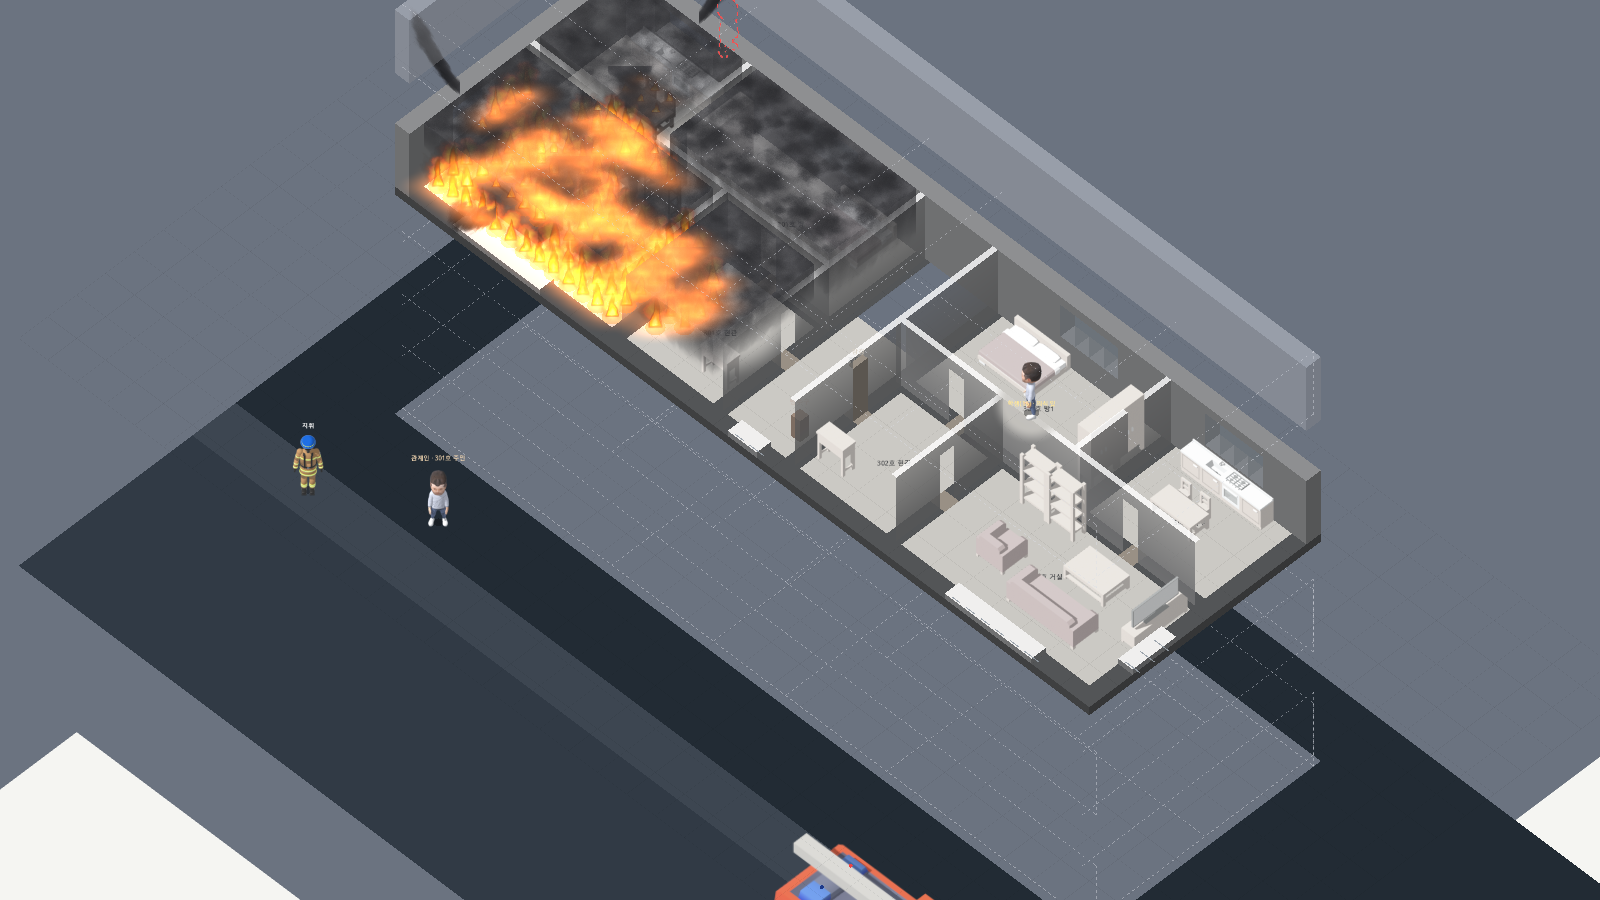
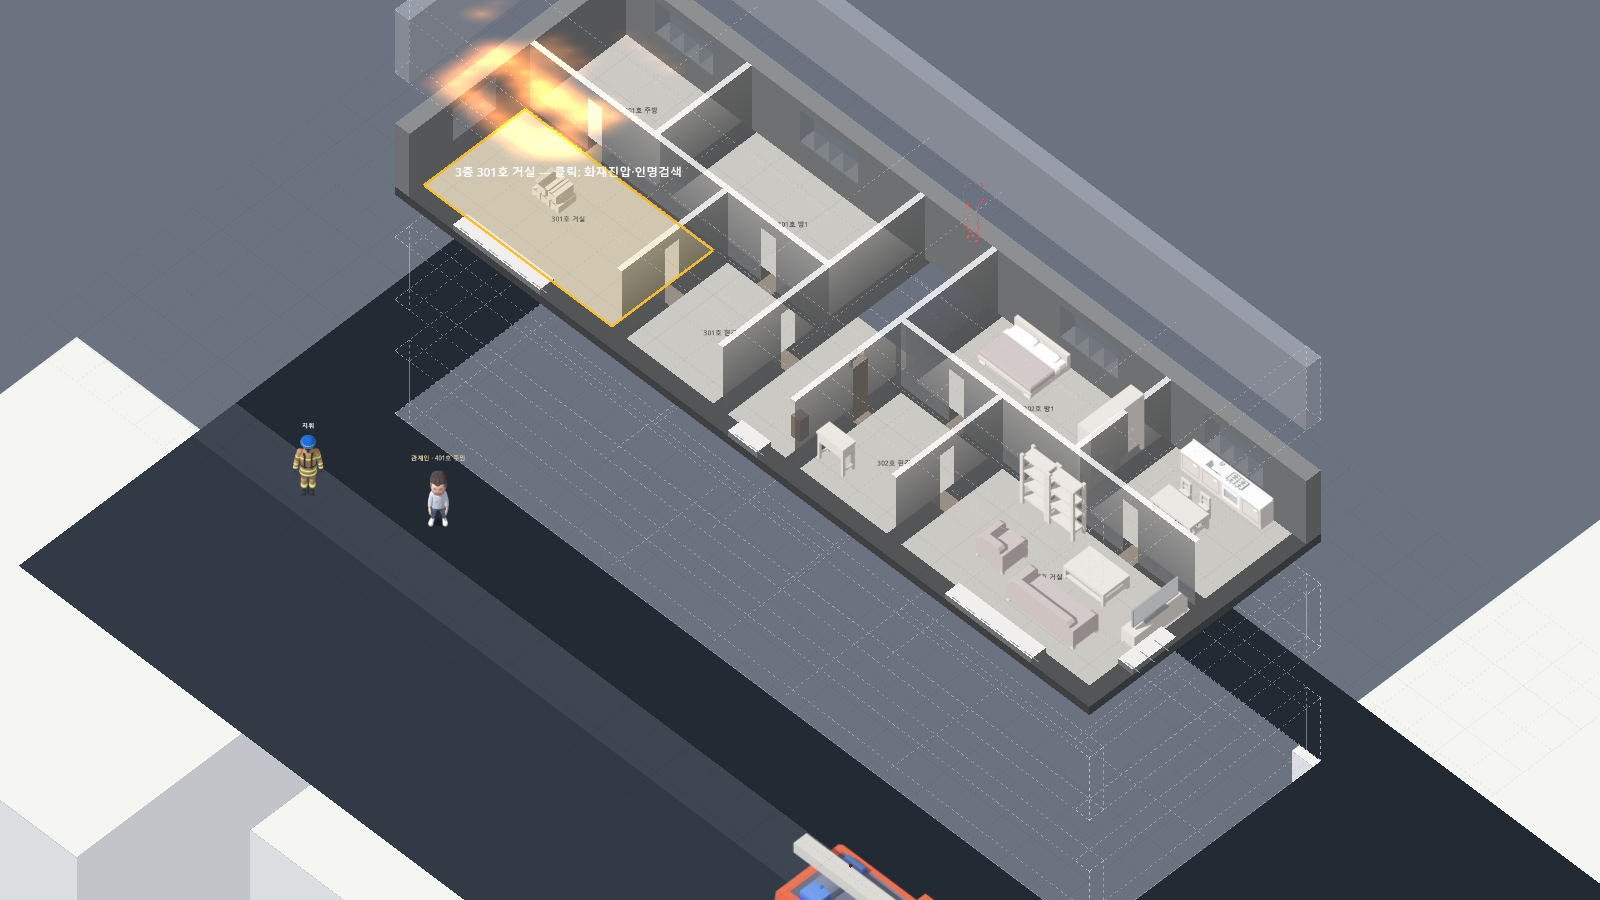
F01: 다른 층 점선 벽도 한 칸 두께 상자 윤곽으로 (반투명 상자와 통일)

diff --git a/docs/decisions.md b/docs/decisions.md
@@ -124,3 +124,4 @@
 | 2026-11-12 | F01 | 위층 뒷벽·왼쪽 벽 반투명 면 | 위층(바로 위) 바깥벽 중 뒷벽(북)·왼쪽 벽(서)만 벽 색 반투명 면 40%(북은 앞면 명암, 서는 옆면 명암), 앞벽(남·동)은 흰 점선 그대로 | 사용자 제안·결정 — 점선만으로는 입체감이 약함. 이 시점에서 위층 북·서 벽은 지금 층 윤곽 바깥(배경 쪽)에 놓여 지금 층을 가리지 않음 (심즈의 뒷벽만 세우기) |
 | 2026-11-12 | F01 | 위층 뒷벽·왼쪽 벽 면 (고침) | 면은 뒷벽(북)·왼쪽 벽(서)만 — 바깥 방향을 벽 줄 가운데 칸으로 판정(모서리 칸 때문에 오른쪽 벽 끝에 면이 생기던 것 없앰). 점선 상자와 면 모두 모서리까지 그려 끝을 맞춤. 면 색은 점선과 같은 밝은 색(뒷벽 밝게, 왼쪽 벽 한 단계 어둡게) | 사용자 지적 — 점선과 면이 어긋나고 오른쪽에 면이 보임. 벽 회색은 배경 회색과 같아 뒷벽 면이 안 보였음 |
 | 2026-11-12 | F01 | 위층 뒷벽·왼쪽 벽은 두께 있는 상자 | 면 한 장 → 지금 층 바깥벽과 같은 한 칸(0.5m) 두께의 반투명 상자(안쪽 면·끝면·윗면, 40%). 왼쪽 벽의 맨 위 모서리 칸은 뒷벽 상자와 겹치지 않게 뺌. 이 두 벽에는 점선을 그리지 않음 (앞벽·오른쪽 벽·실내 벽은 점선) | 사용자 지적 — 벽은 두께가 있는데 선 하나(면 한 장)로 그려 아래 벽·점선과 어긋났음 |
+| 2026-11-12 | F01 | 다른 층 점선 벽도 두께 상자 | 다른 층 바깥벽 중 면을 칠하지 않는 벽(위층 앞벽·오른쪽 벽, 아래층 바깥벽)은 한 칸 두께 상자의 모서리(바닥·천장 네 변 + 세로 모서리)를 흰 점선으로. 실내 벽은 바닥 높이 점선 한 줄 유지 | 사용자 결정 — 반투명 상자(뒷벽·왼쪽 벽)와 두께·끝을 맞춰 통일. 앞쪽은 면을 칠하면 지금 층을 가려 선만 |

diff --git a/docs/progress.md b/docs/progress.md
@@ -50,3 +50,4 @@
 | 2026-11-12 | F01 위층 뒷벽 반투명 | scripts/ui/building/floor_layer(_draw_adjacent 위층 북·서 벽 면)·view_params, data/ui/view_params(ghost_back_wall_alpha 0.4), tests/test_cutaway | 다음: 튜토리얼 단계 정비 |
 | 2026-11-12 | F01 위층 뒷벽 면 고침 | scripts/ui/building/floor_layer(_draw_adjacent: 모서리까지·가운데 칸 판정·밝은 면 색) | 다음: 튜토리얼 단계 정비 |
 | 2026-11-12 | F01 위층 뒷벽 두께 상자 | scripts/ui/building/floor_layer(_draw_adjacent: 위층 북·서 바깥벽을 _box로) | 다음: 튜토리얼 단계 정비 |
+| 2026-11-12 | F01 다른 층 점선 벽 두께 상자 | scripts/ui/building/floor_layer(_draw_adjacent 점선 상자 윤곽) | 다음: 튜토리얼 단계 정비 |
